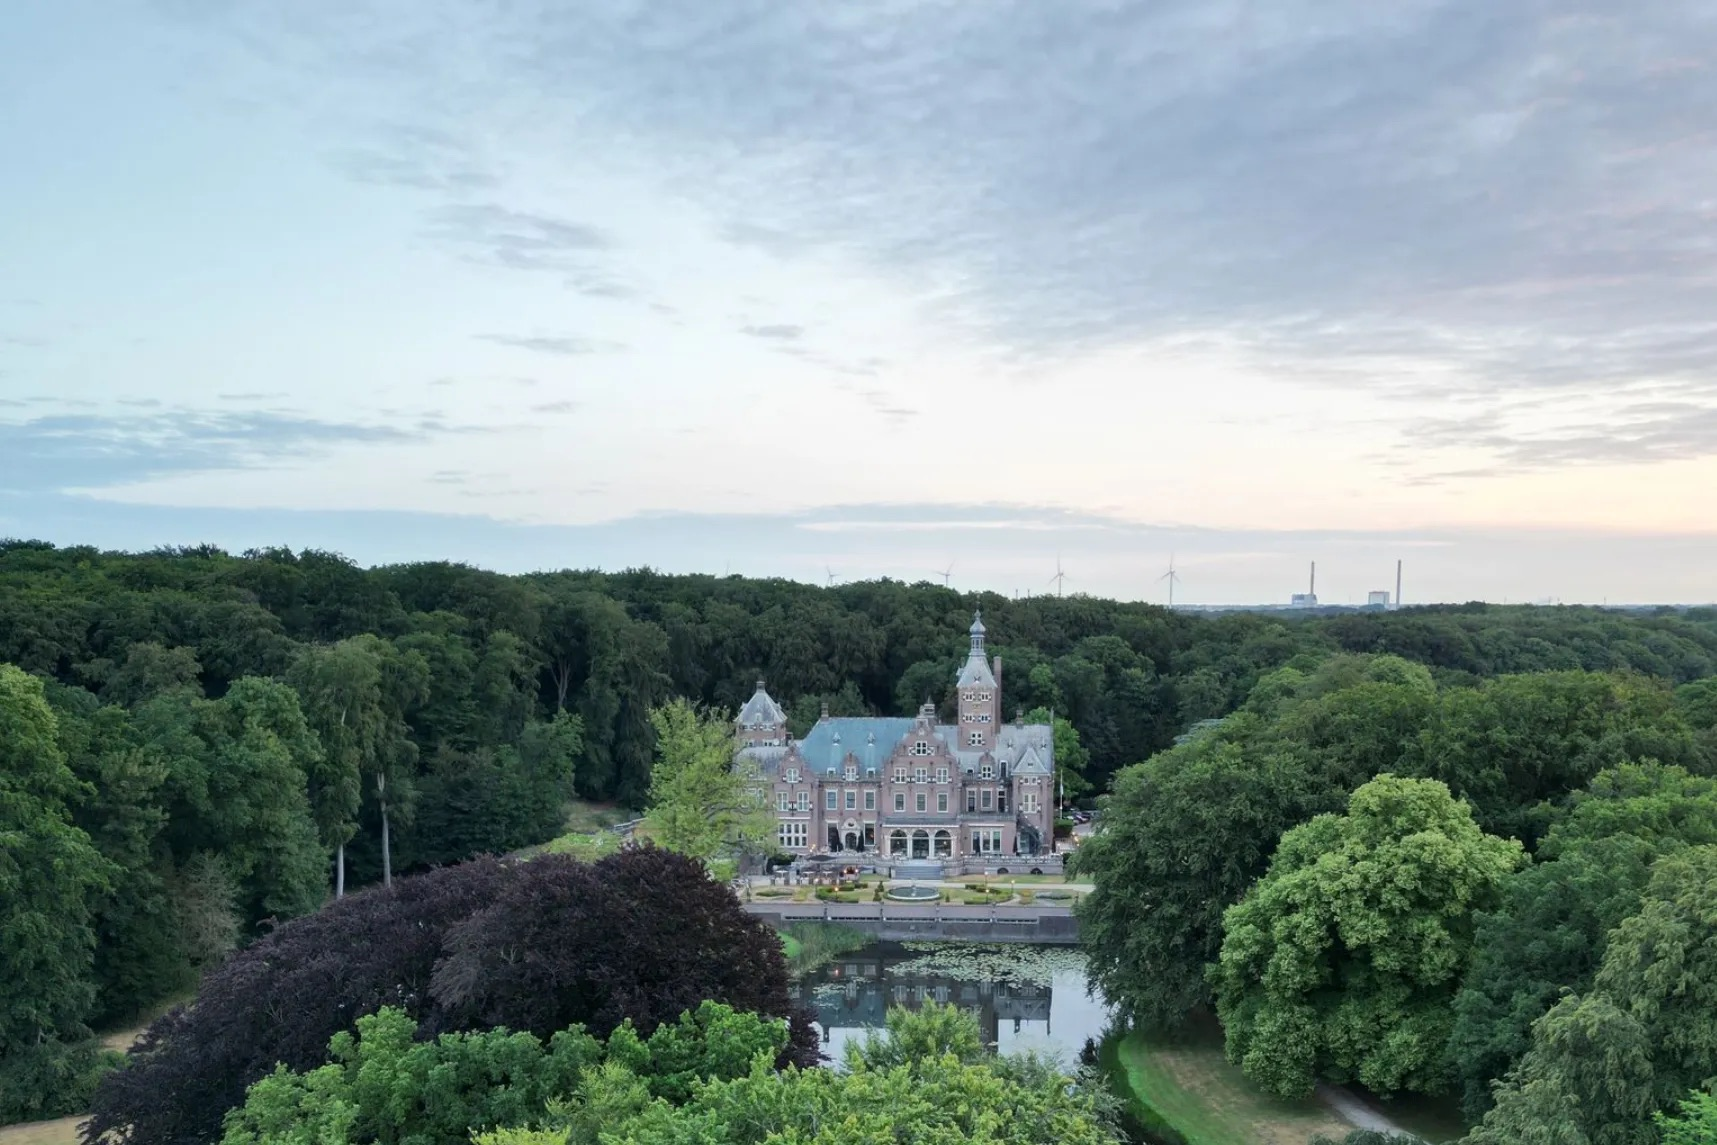
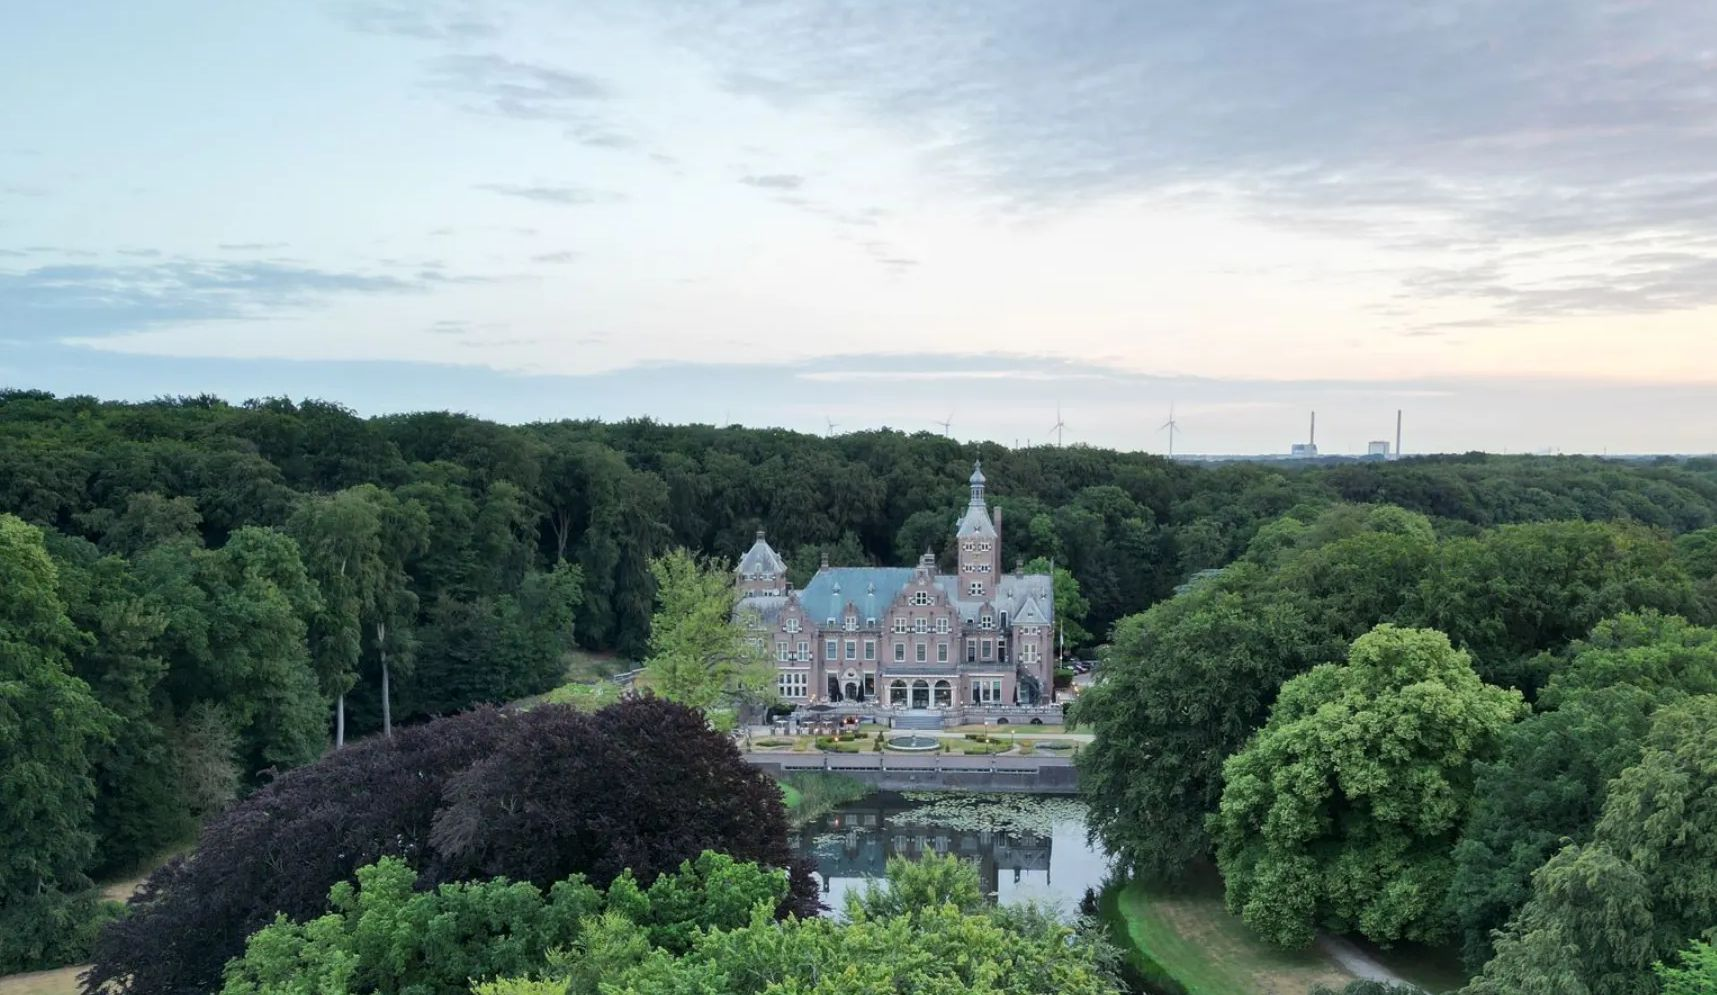
Hero: foto 1 vast (150px van boven af), switcher weg; lounge- en Bangkok-foto paginabreed; subtiele parallax bij scrollen
Op telefoons staat de herotekst boven de foto. Parallax uit bij prefers-reduced-motion.

diff --git a/index.html b/index.html
@@ -42,7 +42,7 @@
     min-height:clamp(560px,88vh,820px);display:flex;align-items:flex-start;
   }
   header.hero > img{
-    position:absolute;inset:0;width:100%;height:100%;object-fit:cover;object-position:center 30%;
+    position:absolute;inset:0;width:100%;height:100%;object-fit:cover;object-position:center 30%;will-change:transform;
   }
   header.hero::after{
     content:'';position:absolute;inset:0;
@@ -53,20 +53,6 @@
   header.hero h1{font-size:clamp(38px,6vw,66px);margin:0 0 18px;color:var(--ink);}
   .hero-meta{margin:0;font-size:clamp(16px,1.9vw,18px);color:var(--ink-soft);max-width:62ch;font-weight:500;}
   .hero-meta span{white-space:nowrap;}
-
-  /* HERO PHOTO SWITCHER */
-  .hero-switch{
-    position:absolute;top:18px;right:18px;z-index:2;display:flex;gap:2px;padding:3px;
-    background:rgba(255,253,249,.55);border:1px solid rgba(26,28,34,.08);
-    backdrop-filter:blur(6px);-webkit-backdrop-filter:blur(6px);opacity:.7;transition:opacity .2s;
-  }
-  .hero-switch:hover,.hero-switch:focus-within{opacity:1;}
-  .hero-switch button{
-    width:24px;height:24px;border:0;background:transparent;cursor:pointer;
-    font:600 11px/1 'Inter',sans-serif;color:var(--ink-soft);padding:0;
-  }
-  .hero-switch button:hover{background:rgba(26,28,34,.08);}
-  .hero-switch button[aria-pressed="true"]{background:var(--ink);color:#fbf8f2;}
 
   /* BUTTONS */
   .btn{
@@ -138,10 +124,11 @@
   .timeline .d{color:var(--ink-soft);font-size:16px;}
   .timeline .d strong{color:var(--ink);}
 
-  /* PHOTOS */
-  figure.photo{margin:0 0 36px;}
-  figure.photo img{width:100%;height:auto;border:1px solid var(--line);}
-  figure.photo.spaced{margin-top:32px;}
+  /* FULL-WIDTH PHOTO BANDS */
+  figure.band{position:relative;overflow:hidden;margin:44px 0;height:clamp(280px,48vw,600px);background:var(--paper-2);}
+  figure.band img{
+    position:absolute;left:0;top:-12%;width:100%;height:124%;object-fit:cover;will-change:transform;
+  }
   .people{margin-top:36px;}
 
   .price{font-family:'Fraunces',serif;font-size:28px;color:var(--ink);margin:4px 0 6px;}
@@ -181,8 +168,10 @@
     .grid.two,.grid.three{grid-template-columns:1fr;}
     .timeline .slot{grid-template-columns:72px 1fr;gap:12px;}
     section{padding:60px 0;}
-    header.hero{min-height:560px;}
-    header.hero .wrap{padding-top:48px;}
+    header.hero{min-height:0;flex-direction:column;align-items:stretch;background:var(--paper);}
+    header.hero::after{display:none;}
+    header.hero .wrap{order:1;padding-top:52px;padding-bottom:28px;}
+    header.hero > img{order:2;position:relative;inset:auto;height:clamp(300px,82vw,420px);transform:none !important;}
     .hero-meta span{white-space:normal;}
     .intro p{font-size:17.5px;}
     .interest .btn{display:block;text-align:center;padding:14px 18px;line-height:1.35;}
@@ -193,20 +182,8 @@
 <body>
 
 <header class="hero">
-  <img id="hero-img" src="images/hero-kasteel.jpg" width="1717" height="1145" fetchpriority="high"
+  <img src="images/hero-kasteel.jpg" width="1717" height="995" fetchpriority="high"
        alt="Luchtfoto van Landgoed Duin en Kruidberg: het kasteel tussen de bossen aan de rand van de duinen">
-  <nav class="hero-switch" aria-label="Kies een hero-foto">
-    <button type="button" data-hero="1" data-src="images/hero-kasteel.jpg" data-pos="center 30%" aria-pressed="true"
-            data-alt="Luchtfoto van Landgoed Duin en Kruidberg: het kasteel tussen de bossen aan de rand van de duinen">1</button>
-    <button type="button" data-hero="2" data-src="images/hero-1.jpg" data-pos="center 33%" aria-pressed="false"
-            data-alt="Luchtfoto van Landgoed Duin en Kruidberg bij zonsondergang, met het kasteel weerspiegeld in de vijver">2</button>
-    <button type="button" data-hero="3" data-src="images/hero-2.jpg" data-pos="center 0%" aria-pressed="false"
-            data-alt="Het kasteel van Landgoed Duin en Kruidberg van dichtbij, met toren en trapgevels">3</button>
-    <button type="button" data-hero="4" data-src="images/hero-3.jpg" data-pos="center 50%" aria-pressed="false"
-            data-alt="Landgoed Duin en Kruidberg in de herfst, gezien over de vijver">4</button>
-    <button type="button" data-hero="5" data-src="images/hero-winter.jpg" data-pos="center 20%" aria-pressed="false"
-            data-alt="Landgoed Duin en Kruidberg in de sneeuw">5</button>
-  </nav>
   <div class="wrap">
     <div class="eyebrow">Invitation Only</div>
     <h1>Design Managers Mastermind</h1>
@@ -372,10 +349,12 @@
 <section>
   <div class="wrap">
     <h2>Praktisch</h2>
-    <figure class="photo">
-      <img src="images/lounge.jpg" width="1600" height="870" loading="lazy"
-           alt="De lounge van Landgoed Duin en Kruidberg met houten schouw, chesterfields en kroonluchter">
-    </figure>
+  </div>
+  <figure class="band">
+    <img src="images/lounge.jpg" width="1600" height="870" loading="lazy" style="object-position:center 55%"
+         alt="De lounge van Landgoed Duin en Kruidberg met houten schouw, chesterfields en kroonluchter">
+  </figure>
+  <div class="wrap">
     <div class="stack">
       <div class="item">
         <h3>De locatie</h3>
@@ -412,10 +391,12 @@
     <p>Eind 2025 organiseerden we een eerste Mastermind over AI en UX, vooral om inspiratie op te doen voor onze trainingen. AI ontwikkelt zich zo snel dat sommige vraagstukken een paar maanden later al een ander antwoord hadden. Wat bleef, was de waarde van de dag zelf: een dag lang met senior UX'ers in een strak format ervaringen delen, leverde ongelofelijk veel meer inzichten en inspiratie op dan een gemiddelde conferentie.</p>
     <p>Daarna hebben we de werkvormen aangescherpt en ons netwerk gevraagd wat zij nodig hebben. Het resultaat is dit format, waarin de thema's voortkomen uit de gesprekken met de deelnemers, niet uit een vooraf bedacht programma.</p>
 
-    <figure class="photo spaced">
-      <img src="images/mastermind-bangkok.jpg" width="1600" height="813" loading="lazy"
-           alt="Deelnemers van de eerste Mastermind in Bangkok in gesprek rond een flip-over vol post-its">
-    </figure>
+  </div>
+  <figure class="band">
+    <img src="images/mastermind-bangkok.jpg" width="1600" height="813" loading="lazy" style="object-position:center 40%"
+         alt="Deelnemers van de eerste Mastermind in Bangkok in gesprek rond een flip-over vol post-its">
+  </figure>
+  <div class="wrap">
 
     <p><strong>Belangrijkste uitgangspunten:</strong></p>
     <ul class="ticks">
@@ -472,29 +453,32 @@
 
 <script>
   (function () {
-    var img = document.getElementById('hero-img');
-    var buttons = document.querySelectorAll('.hero-switch button');
+    if (matchMedia('(prefers-reduced-motion: reduce)').matches) return;
+    var hero = document.querySelector('header.hero > img');
+    var bands = Array.prototype.slice.call(document.querySelectorAll('figure.band'));
+    var ticking = false;
 
-    function show(button, updateUrl) {
-      img.src = button.dataset.src;
-      img.alt = button.dataset.alt;
-      img.style.objectPosition = button.dataset.pos;
-      buttons.forEach(function (b) { b.setAttribute('aria-pressed', String(b === button)); });
-      if (updateUrl) {
-        var url = new URL(location.href);
-        if (button.dataset.hero === '1') url.searchParams.delete('hero');
-        else url.searchParams.set('hero', button.dataset.hero);
-        history.replaceState(null, '', url);
+    function update() {
+      ticking = false;
+      var vh = innerHeight;
+      if (scrollY < vh * 1.5) {
+        hero.style.transform = 'translate3d(0,' + (scrollY * 0.25).toFixed(1) + 'px,0)';
       }
+      bands.forEach(function (band) {
+        var r = band.getBoundingClientRect();
+        if (r.bottom < 0 || r.top > vh) return;
+        // -1 when the band leaves at the top, 1 when it enters at the bottom
+        var progress = (r.top + r.height / 2 - vh / 2) / (vh / 2 + r.height / 2);
+        band.firstElementChild.style.transform = 'translate3d(0,' + (-progress * r.height * 0.1).toFixed(1) + 'px,0)';
+      });
     }
 
-    buttons.forEach(function (b) {
-      b.addEventListener('click', function () { show(b, true); });
-    });
-
-    var chosen = new URLSearchParams(location.search).get('hero');
-    var match = chosen && document.querySelector('.hero-switch button[data-hero="' + CSS.escape(chosen) + '"]');
-    if (match) show(match, false);
+    function schedule() {
+      if (!ticking) { ticking = true; requestAnimationFrame(update); }
+    }
+    addEventListener('scroll', schedule, { passive: true });
+    addEventListener('resize', schedule);
+    update();
   })();
 </script>
 
